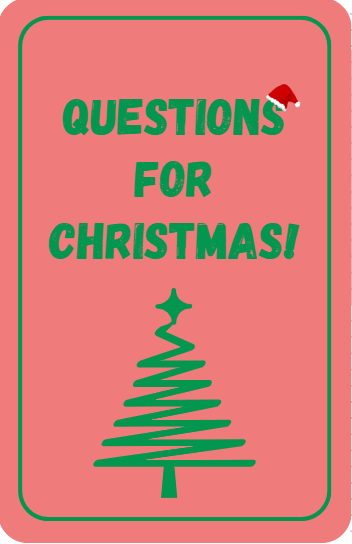
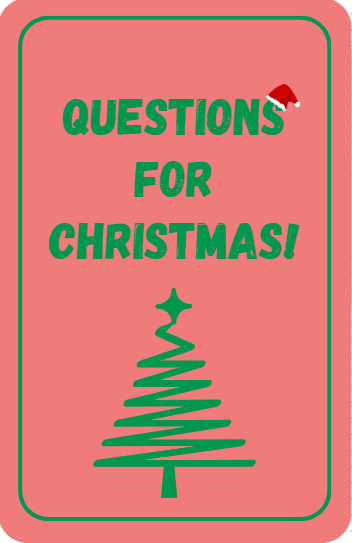
Refined image siing in paint and rounded edges in the cardscroll component

diff --git a/app/browse/page.js b/app/browse/page.js
@@ -1,18 +1,20 @@
 import React from 'react';
 import BrowserCard from '../components/BrowserCard'; // Adjust the import path as necessary
 
-
 // Images
-import friendsImage from '../../public/Images/Friends/Friends_Front.png'; 
-import LoversImage from '../../public/Images/Couples/Couples_Front.png'; 
-import familyImage from '../../public/Images/Family/Family_Front.png'; 
-import newConnectionsImage from '../../public/Images/New_Connections/NewConnections_Front.png'; 
-import WorkColleaguesImage from '../../public/Images/WorkColleagues/WorkColleagues_Front.png'; 
-import ChristmasImage from '../../public/Images/Christmas/Christmas_Front.png'
+import friendsImage from '../../public/Images/Friends/Friends_Front.png';
+import LoversImage from '../../public/Images/Couples/Couples_Front.png';
+import familyImage from '../../public/Images/Family/Family_Front.png';
+import newConnectionsImage from '../../public/Images/New_Connections/NewConnections_Front.png';
+import WorkColleaguesImage from '../../public/Images/WorkColleagues/WorkColleagues_Front.png';
+import ChristmasImage from '../../public/Images/Christmas/Christmas_Front.png';
 
-const decks = [
-  { to: '/friends', image: friendsImage, description: 'Questions for Friends' },
+const FreeDecks = [
   { to: '/lovers', image: LoversImage, description: 'Questions for Lovers' },
+  { to: '/friends', image: friendsImage, description: 'Questions for Friends' },
+];
+
+const PremiumDecks = [
   { to: '/family', image: familyImage, description: 'Questions for Family' },
   { to: '/newconnections', image: newConnectionsImage, description: 'Questions for New Connections' },
   { to: '/workcolleagues', image: WorkColleaguesImage, description: 'Questions for Work Colleagues' },
@@ -21,15 +23,38 @@ const decks = [
 
 const Browser = () => {
   return (
-    <div className="container mx-auto px-4 py-8 pt-24">
-      <div className="text-center mb-12">
-        <h2 className="text-4xl font-bold mb-6 current-decks">Current Decks</h2>
-        <p className="text-lg text-gray-600">Explore our collection of question decks to spark interesting conversations.</p>
+    <div className="flex h-screen pt-24">
+      {/* Static Content on the Left */}
+      <div className="w-1/3 bg-gray-100 p-8">
+        <h2 className="text-2xl font-bold mb-4">About Our Decks</h2>
+        <p className="text-gray-700 mb-4">
+          Our decks are designed to spark interesting conversations and deepen connections with friends, family, and colleagues.
+        </p>
+        <p className="text-gray-700">
+          Whether you&apos;re looking to break the ice with new acquaintances or strengthen bonds with loved ones, we have a deck for every occasion.
+        </p>
       </div>
-      <div className="grid grid-cols-1 sm:grid-cols-2 lg:grid-cols-3 gap-4">
-        {decks.map((deck, index) => (
-          <BrowserCard key={index} to={deck.to} image={deck.image} description={deck.description} />
-        ))}
+
+      {/* Browser Cards on the Right */}
+      <div className="w-2/3 overflow-y-auto p-8">
+        <div className="text-center mb-8">
+          <h2 className="text-4xl font-bold mb-4">Free Decks</h2>
+          <p className="text-lg text-gray-600">Explore our collection of free question decks to spark interesting conversations.</p>
+        </div>
+        <div className="grid grid-cols-1 sm:grid-cols-2 gap-4">
+          {FreeDecks.map((deck, index) => (
+            <BrowserCard key={index} to={deck.to} image={deck.image} description={deck.description} />
+          ))}
+        </div>
+        <div className="text-center mb-8 pt-12">
+          <h2 className="text-4xl font-bold mb-4">Premium Decks</h2>
+          <p className="text-lg text-gray-600">Explore our premium collection of question decks designed to explore deeper.</p>
+        </div>
+        <div className="grid grid-cols-1 sm:grid-cols-2 gap-4">
+          {PremiumDecks.map((deck, index) => (
+            <BrowserCard key={index} to={deck.to} image={deck.image} description={deck.description} />
+          ))}
+        </div>
       </div>
     </div>
   );

diff --git a/app/components/CardScroll.css b/app/components/CardScroll.css
@@ -51,7 +51,7 @@ transition: transform 0.2s;
 .card-scroll-item img {
 width: 100%;
 max-width: var(--card-width);
-border-radius: 10px;
+border-radius: 20px; /* Increase the border-radius for more rounded corners */
 box-shadow: 0 4px 8px rgba(0, 0, 0, 0.1);
 }
 
